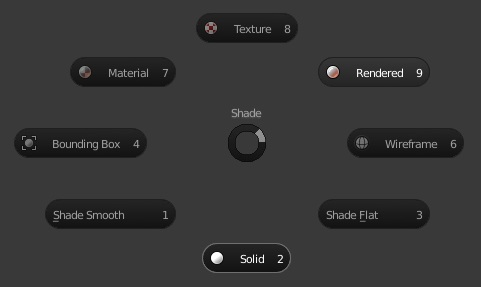
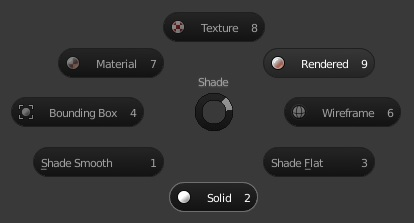
interface: btn n' ctrl compact pie image

diff --git a/manual/interface/buttons_and_controls.rst b/manual/interface/buttons_and_controls.rst
@@ -329,7 +329,7 @@ A pie menu is a menu, whose items are spread radially around the mouse.
 Pie menus has to be activated in the User Preferences through :menuselection:`Add-ons --> UI --> Pie Menus Official`. 
 
 .. figure:: /images/interface_pie-menu.jpg
-   :width: 400px
+   :width: 350px
 
    The shade pie menu.
 
